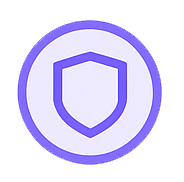
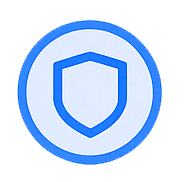
this page done 10

Changed region(s): [[0.0815, 0.1099, 0.8967, 0.9066], [0.2717, 0.2747, 0.7065, 0.7692]]

diff --git a/src/pages/Home.jsx b/src/pages/Home.jsx
@@ -1,39 +1,48 @@
 import React from 'react';
 import Navbar from '../components/Navbar';
-import ione from "/home-shape-1-2.png";
-import ithree from "/home-shape-1-1.png";
+import ione from "/i2.png";
+import ithree from "/i1.png";
 import ifour from "/i4.png";
 import isix from "/i6.png";
+import CustomCursor from '../components/CustomCursor';
 
 
 function Home() {
     return (
         <>
+         <CustomCursor/>
             <Navbar />
 
             <main className='float-left w-full'>
                 <section className='section-hero float-left w-full'>
 
                     <div className='container mx-auto py-4'>
-                        <div className='container-hero flex items-center gap-52 '>
-                            <div>
-                                <h1 className='hero-main-text'>Compliance  <span> security
+                        <div className='container-hero relative'>
+                            <div className='banner-tms01'>
+                                <h1 className='hero-main-text'>Compliance & <span> security
                                     <svg width="300" height="12" viewBox="0 0 300 12" fill="none" xmlns="http://www.w3.org/2000/svg">
-                                                <path d="M275.982 1.4409C269.424 1.12484 262.867 0.892429 256.309 0.622849C254.145 0.529889 251.971 0.529918 249.807 0.483438C245.111 0.381188 240.414 0.288218 235.717 0.185959C233.104 0.130186 230.482 0.0651215 227.87 0.0186415C227.107 0.00934547 226.357 3.05176e-05 225.594 3.05176e-05C223.891 3.05176e-05 222.186 0.0185935 220.483 0.0278895C212.737 0.0371855 204.98 0.0464995 197.234 0.0464995C195.384 0.0464995 193.546 0.0836815 191.696 0.102274C187.122 0.148754 182.561 0.204559 177.998 0.251039C172.842 0.306819 167.696 0.325359 162.54 0.436918C154.2 0.604239 145.872 0.780908 137.531 0.948238C132.7 1.0505 127.88 1.10624 123.048 1.26427C114.731 1.54315 106.424 1.81274 98.1069 2.08232C93.567 2.23106 89.0159 2.35193 84.4759 2.56573C75.8782 2.96546 67.2803 3.35586 58.6825 3.75559C54.0866 3.9694 49.4906 4.12743 44.9058 4.45279C36.3417 5.05703 27.7888 5.66128 19.2246 6.26552C17.3749 6.39566 15.5254 6.52579 13.6758 6.65593C9.97655 6.91622 6.29982 7.32527 2.61185 7.66922C2.37644 7.69711 2.15225 7.72501 1.91685 7.7436C1.47968 7.84586 1.08733 8.03176 0.762257 8.30134C0.280242 8.70107 0 9.25882 0 9.82592C0 10.3929 0.280242 10.9507 0.762257 11.3597C1.19943 11.7222 1.96169 12.0569 2.61185 11.9919C7.06208 11.5735 11.5011 11.1366 15.9513 10.8206C20.0877 10.5324 24.2128 10.2349 28.3493 9.94672C32.8555 9.63072 37.3618 9.31462 41.8681 8.99854C43.684 8.86839 45.5 8.70109 47.3272 8.61743C54.3557 8.29207 61.3841 7.97597 68.4125 7.65061C72.7955 7.4461 77.1785 7.25092 81.5614 7.0464C83.3774 6.96274 85.1822 6.86047 86.9981 6.79539C93.9593 6.563 100.932 6.34917 107.893 6.13536C112.119 6.00522 116.333 5.86578 120.56 5.73564C121.983 5.68916 123.396 5.63337 124.819 5.60548C132.341 5.45675 139.863 5.31734 147.384 5.1779C151.588 5.09424 155.781 5.01986 159.985 4.9362C161.475 4.90831 162.977 4.86181 164.468 4.85251C172.225 4.78744 179.982 4.7224 187.739 4.65733C192.582 4.61085 197.413 4.57365 202.256 4.58295C210.495 4.60154 218.734 4.61082 226.962 4.62941C228.588 4.62941 230.213 4.68523 231.838 4.73171C236.389 4.84327 240.929 4.9548 245.481 5.06636C248.888 5.15002 252.296 5.23364 255.715 5.31731C258.136 5.37308 260.546 5.52184 262.967 5.6334C270.085 5.94946 277.204 6.28414 284.311 6.64668C286.115 6.73964 287.92 6.85116 289.725 6.96272C291.664 7.07427 293.603 7.19512 295.531 7.37174C295.834 7.40893 296.125 7.45543 296.428 7.5112C297.191 7.64135 297.919 7.60416 298.603 7.2788C299.231 6.97204 299.701 6.46075 299.903 5.8751C300.307 4.64803 299.41 3.33726 297.93 2.99331C296.63 2.69584 295.284 2.57504 293.951 2.46349C293.032 2.38912 292.124 2.30546 291.204 2.23109C289.445 2.08236 287.674 2.00794 285.913 1.89639C282.607 1.71977 279.289 1.59893 275.982 1.4409Z" fill="#1c9c84"></path>
-                                             </svg> </span> <br/> <strong> growth </strong> with IDLock</h1>
+                                                <path d="M275.982 1.4409C269.424 1.12484 262.867 0.892429 256.309 0.622849C254.145 0.529889 251.971 0.529918 249.807 0.483438C245.111 0.381188 240.414 0.288218 235.717 0.185959C233.104 0.130186 230.482 0.0651215 227.87 0.0186415C227.107 0.00934547 226.357 3.05176e-05 225.594 3.05176e-05C223.891 3.05176e-05 222.186 0.0185935 220.483 0.0278895C212.737 0.0371855 204.98 0.0464995 197.234 0.0464995C195.384 0.0464995 193.546 0.0836815 191.696 0.102274C187.122 0.148754 182.561 0.204559 177.998 0.251039C172.842 0.306819 167.696 0.325359 162.54 0.436918C154.2 0.604239 145.872 0.780908 137.531 0.948238C132.7 1.0505 127.88 1.10624 123.048 1.26427C114.731 1.54315 106.424 1.81274 98.1069 2.08232C93.567 2.23106 89.0159 2.35193 84.4759 2.56573C75.8782 2.96546 67.2803 3.35586 58.6825 3.75559C54.0866 3.9694 49.4906 4.12743 44.9058 4.45279C36.3417 5.05703 27.7888 5.66128 19.2246 6.26552C17.3749 6.39566 15.5254 6.52579 13.6758 6.65593C9.97655 6.91622 6.29982 7.32527 2.61185 7.66922C2.37644 7.69711 2.15225 7.72501 1.91685 7.7436C1.47968 7.84586 1.08733 8.03176 0.762257 8.30134C0.280242 8.70107 0 9.25882 0 9.82592C0 10.3929 0.280242 10.9507 0.762257 11.3597C1.19943 11.7222 1.96169 12.0569 2.61185 11.9919C7.06208 11.5735 11.5011 11.1366 15.9513 10.8206C20.0877 10.5324 24.2128 10.2349 28.3493 9.94672C32.8555 9.63072 37.3618 9.31462 41.8681 8.99854C43.684 8.86839 45.5 8.70109 47.3272 8.61743C54.3557 8.29207 61.3841 7.97597 68.4125 7.65061C72.7955 7.4461 77.1785 7.25092 81.5614 7.0464C83.3774 6.96274 85.1822 6.86047 86.9981 6.79539C93.9593 6.563 100.932 6.34917 107.893 6.13536C112.119 6.00522 116.333 5.86578 120.56 5.73564C121.983 5.68916 123.396 5.63337 124.819 5.60548C132.341 5.45675 139.863 5.31734 147.384 5.1779C151.588 5.09424 155.781 5.01986 159.985 4.9362C161.475 4.90831 162.977 4.86181 164.468 4.85251C172.225 4.78744 179.982 4.7224 187.739 4.65733C192.582 4.61085 197.413 4.57365 202.256 4.58295C210.495 4.60154 218.734 4.61082 226.962 4.62941C228.588 4.62941 230.213 4.68523 231.838 4.73171C236.389 4.84327 240.929 4.9548 245.481 5.06636C248.888 5.15002 252.296 5.23364 255.715 5.31731C258.136 5.37308 260.546 5.52184 262.967 5.6334C270.085 5.94946 277.204 6.28414 284.311 6.64668C286.115 6.73964 287.92 6.85116 289.725 6.96272C291.664 7.07427 293.603 7.19512 295.531 7.37174C295.834 7.40893 296.125 7.45543 296.428 7.5112C297.191 7.64135 297.919 7.60416 298.603 7.2788C299.231 6.97204 299.701 6.46075 299.903 5.8751C300.307 4.64803 299.41 3.33726 297.93 2.99331C296.63 2.69584 295.284 2.57504 293.951 2.46349C293.032 2.38912 292.124 2.30546 291.204 2.23109C289.445 2.08236 287.674 2.00794 285.913 1.89639C282.607 1.71977 279.289 1.59893 275.982 1.4409Z" fill="#4479bd"></path>
+                                             </svg> </span>  <strong> growth </strong> with IDLock</h1>
                                 <p className='sub-text mb-11'>Enhances growth by increasing compliance and security by facial recognition, content detection technologies</p>
                                 <button className='theme-color-btn brn-btn' id=''>Get Started</button>
                                 <button className='white-color-btn brn-btn' id=''>Try Demo</button>
                             </div>
 
-
-                            <div className='hero-img-containter'>
-                               
-                                <img src={ithree} alt="b" className='ithree'/>
-                                <img src={ifour} alt="b" className='ifour'/>
-                                <img src={ione} alt="g"  className='ione-face'/>
-                                <img src={isix} alt="h"  className='isix'/>
+                             <div className='ithree'>
+                                   <img src={ithree} alt="b" />
+                                </div>
+                                <div className='ifour'>
+                                    <img src={ifour} alt="b" />
+                                </div>
+                                <div className='ione-face'>
+                                  <img src={ione} alt="g" />
+                                </div>
+                                <div className='isix'>
+                                   <img src={isix} alt="h" />
                             </div>
+
+
+                           
                         </div>
                     </div>
                 </section>

diff --git a/src/index.css b/src/index.css
@@ -10,7 +10,7 @@
 
 body {
    font-family: "Plus Jakarta Sans", sans-serif;
-   background: #eeffee;
+   background: #efefef;
 }
 
 a {
@@ -32,14 +32,14 @@ li {
 
 :root {
     --text-white: #ffffff;
-    --theme-color: #89a831;
-    --secondary-theme-color: #1c9c84;
+    --theme-color: #4479bd;
+    --secondary-theme-color: #4479bd;
 }
 
 
 .md\:hover\:text-blue-700:hover {
         --tw-text-opacity: 1;
-        color:#1c9c84 !important;
+        color:#4479bd !important;
 }
 @media (min-width: 1000px) {
     .wrapper {
@@ -178,6 +178,7 @@ nav{
     font-weight: 300;
     letter-spacing: -0.03em;
     line-height: 76px;
+    width: 90%;
 }
 .hero-main-text span{
     font-size: 55px;
@@ -185,7 +186,7 @@ nav{
     font-weight: 700; 
     position: relative;
     text-transform: capitalize;
-    color: #1c9c84;
+    color: #4479bd;
 }
 
 .hero-main-text strong{
@@ -223,9 +224,10 @@ nav{
 .ione-face {
     animation: faceleftright 2s alternate infinite;
     -webkit-animation: faceleftright 2s alternate infinite;
-     right: 240px;
-    position: relative;
-    bottom: -90px;
+    right: 250px;
+    position: absolute;
+    bottom: 0px;
+    width: 150px;
 }
 
 @keyframes faceleftright {
@@ -244,9 +246,9 @@ nav{
 
 .ithree {
     position: absolute;
-    top: -79%;
-    left: -10%;
-    width: auto;
+    top: 60px;
+    right: 110px;
+    width: 280px;
     animation: ithree 2s alternate infinite;
     -webkit-animation: ithree 2s alternate infinite;
 }
@@ -279,8 +281,8 @@ nav{
 
 .ifour {
     position: absolute;
-    top: -50%;
-    right: -10%;
+    top: 10px;
+    right: 0;
     width: 60px;
     animation: gelatine 0.5s infinite;
     -webkit-animation: gelatine 0.5s infinite;
@@ -328,7 +330,7 @@ nav{
 
 .itwo {
     position: absolute;
-    bottom: -50%;
+    top: -50%;
     width: 100px;
     aspect-ratio: 1;
     animation: roll-in 2s ease infinite;
@@ -353,7 +355,7 @@ nav{
 
 .isix {
     position: absolute;
-    bottom: -50%;
+    top: 200px;
     right: 0%;
     width: 80px;
     aspect-ratio: 1;
@@ -375,7 +377,7 @@ nav li a{
    color: #010101 !important; 
 }
 nav li a:hover{
-    color: #1c9c84 !important;
+    color: #4479bd !important;
 }
 .signup-nows{
     padding-left: 20%;
@@ -397,15 +399,16 @@ nav li a:hover{
  padding: 12px 11px;
 }
 .signup-nows li:last-child a{
-    background: #f0da18;
+    background: #050708;
     font-weight: 500;
     font-size: 16px;
     padding: 10px 30px;
     border-radius: 50px;
     transition: all 0.5s;
-        position: relative;
+    position: relative;
     right: -140px;
     display: table;
+    color: var(--text-white) !important;
 
 }
 .signup-nows li:last-child a:hover{
@@ -413,9 +416,40 @@ nav li a:hover{
     color: var(--text-white) !important;
 }
 .section-hero{
-    background: #eeffee;
+    background: #efefef;
 }
+.banner-tms01{
+    width: 68%;
+    padding-top: 70px;
+}
+.border-round-bar{
+    border-radius: 50px;
+    overflow: hidden;
+    box-shadow: rgba(0, 0, 0, 0.02) 0px 1px 3px 0px, rgba(27, 31, 35, 0.15) 0px 0px 0px 1px;
+    padding: 14px;
+}
+.off-cnvas01{
+    right: 0;
 
+}
+.offcanv{
+    background: #0a2b57;
+}
+.clones-btn{
+    background: #fff;
+    padding: 0px 12px 9px 12px;
+    line-height: normal;
+    /* padding-top: 7px; */
+    font-size: 30px;
+}
+.offcanv ul li a{
+  color: var(--text-white) !important;
+  text-transform: uppercase;
+  background: none !important;
+  border-bottom: solid 1px #09489d !important;
+  padding: 14px 20px;
+  font-size: 15px;
+}
 @media (min-width: 1280px) {
     .container {
         max-width: 1200px;
@@ -423,12 +457,91 @@ nav li a:hover{
 }
 
 @media (max-width: 1168px) {
+    .hero-main-text,
+    .hero-main-text span,
+    .hero-main-text strong{
+        font-size: 30px;
+        line-height: 42px;
+    }
     .hero-main-text{
-        font-size: 35px;
+        width: 100%;
+    }
+    .hero-main-text span svg{
+        width: 100%;
+        right: 0;
     }
 }
+
 @media(max-width:910px){
     #navbar-default{
         display: none;
     }
+    .banner-tms01{
+       width: 100%;
+       padding-top: 10px;
+       padding-left: 20px;
+    }
+    .ithree{
+        display: none;
+    }
+    .ione-face{
+        display: none;
+    }
+    .isix,
+    .ifour{
+        width: 50px;
+        position: relative;
+    }
+    .isix{
+        top: 0;
+        right: 0;
+        left: 50px;
+    }
+    .moible-full{
+        max-width: 100%;
+        width: 100%;
+        justify-content: space-between;
+    }
+    .loggos {
+         width: 34%;
+    }
+}
+@media(max-width:668px){
+     .hero-main-text,
+    .hero-main-text span,
+    .hero-main-text strong{
+        font-size: 40px;
+        line-height: 53px;
+    }
+    .hero-main-text {
+        width: 90%;
+    }
+    .loggos {
+        width: 21%;
+    }
+}
+
+.custom-cursor {
+  position: fixed;
+  width: 35px;
+  height: 35px;
+  border: solid 2px rgba(0, 123, 255, 0.6);
+  border-radius: 50%;
+  pointer-events: none;
+  transform: translate(-50%, -50%);
+  transition: transform 0.05s ease;
+  z-index: 9999;
+}
+.custom-cursor::before{
+    position: absolute;
+    right: 0;
+    left: 0;
+    top:12px;
+    width: 8px;
+    height: 8px;
+    margin: auto;
+    border-radius: 50px;
+    overflow: hidden;
+    background: rgba(0, 123, 255, 0.6);
+    content: "";
 }

diff --git a/src/components/Navbar.jsx b/src/components/Navbar.jsx
@@ -36,13 +36,13 @@ function Navbar() {
 
             <nav className="bg-white float-left border-gray-200 dark:bg-gray-900 w-full">
                 <div className='container mx-auto'>
-                    <div className="max-w-screen-xl flex flex-wrap items-center mx-auto p-4">
+                    <div className="max-w-screen-xl moible-full flex flex-wrap items-center mx-auto p-4">
                         <NavLink to='/' className="flex loggos items-center space-x-3 rtl:space-x-reverse">
                             <img src='/mb-logo.png' className="logo-ps" alt='logo' />
                         </NavLink>
 
 
-                        <button  onClick={toggleMenu}  className="text-gray-800 dark:text-white focus:outline-none text-2xl md:hidden">
+                        <button  onClick={toggleMenu}  className="border-round-bar text-gray-800 dark:text-white focus:outline-none text-2xl md:hidden">
                             <svg class="w-5 h-5" aria-hidden="true" xmlns="http://www.w3.org/2000/svg" fill="none" viewBox="0 0 17 14">
                                 <path stroke="currentColor" stroke-linecap="round" stroke-linejoin="round" stroke-width="2" d="M1 1h15M1 7h15M1 13h15"/>
                             </svg>
@@ -63,12 +63,14 @@ function Navbar() {
 
 
 
-                        <div className={`fixed top-0 left-0 w-64 h-full bg-white dark:bg-gray-900 shadow-lg z-50 transform transition-transform duration-300 ease-in-out ${
+                        <div className={`fixed top-0 offcanv left-0 w-64 h-full bg-white dark:bg-gray-900 shadow-lg z-50 transform transition-transform duration-300 ease-in-out ${
                                   isOpen ? 'translate-x-0' : '-translate-x-full'
                                 }`} >
                                 <div className="p-4 flex justify-between items-center border-b border-gray-200 dark:border-gray-700">
-                                  <h2 className="text-xl font-bold text-gray-900 dark:text-white">Menu</h2>
-                                  <button onClick={toggleMenu} className="text-gray-700 dark:text-white text-2xl">&times;</button>
+                                  <NavLink to="/" className="text-xl font-bold text-gray-900 dark:text-white">
+                                       <img src='/mobile-logo.png' alt='logo' />
+                                  </NavLink>
+                                  <button onClick={toggleMenu} className="clones-btn text-gray-700 dark:text-white text-2xl">&times;</button>
                                 </div>
                                 <ul className="mt-4">
                                   {navItems.map((item, index) => (

diff --git a/src/components/CustomCursor.jsx b/src/components/CustomCursor.jsx
@@ -1,0 +1,29 @@
+
+import React, { useEffect, useState } from 'react';
+
+const CustomCursor = () => {
+  const [position, setPosition] = useState({ x: 0, y: 0 });
+
+  useEffect(() => {
+    const moveCursor = (e) => {
+      setPosition({ x: e.clientX, y: e.clientY });
+    };
+
+    window.addEventListener('mousemove', moveCursor);
+    return () => {
+      window.removeEventListener('mousemove', moveCursor);
+    };
+  }, []);
+
+  return (
+    <div
+      className="custom-cursor"
+      style={{
+        left: `${position.x}px`,
+        top: `${position.y}px`
+      }}
+    />
+  );
+};
+
+export default CustomCursor;
